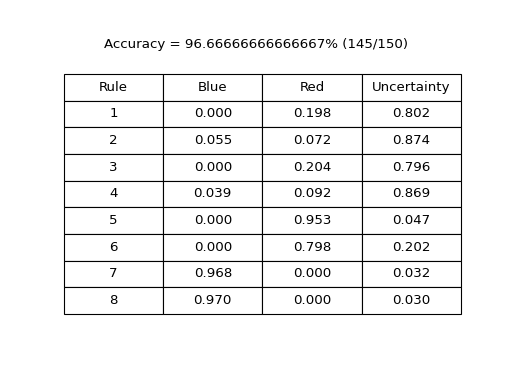
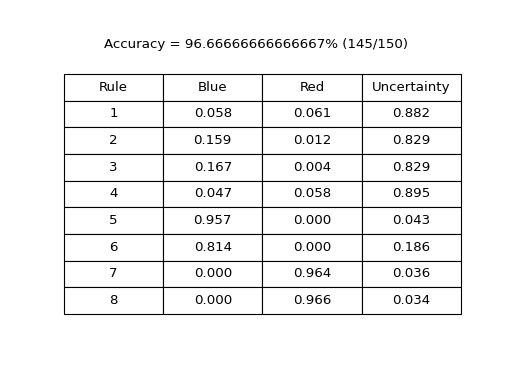
Update

diff --git a/utils/graph.py b/utils/graph.py
@@ -32,7 +32,7 @@ def draw_rule_table(rule_set, filepath, accuracy, tot_correct_predicts, tot_pred
     for i in range(len(rule_set)):
         dict_m = rule_set[i][0]
         r, b, u = dict_m[frozenset({'R'})].item(), dict_m[frozenset({'B'})].item(), dict_m[frozenset({'R', 'B'})].item() 
-        table_data.append([i+1, NUM_FORMAT.format(r), NUM_FORMAT.format(b), NUM_FORMAT.format(u)])
+        table_data.append([i+1, NUM_FORMAT.format(b), NUM_FORMAT.format(r), NUM_FORMAT.format(u)])
 
     table = ax.table(cellText=table_data, loc='center', cellLoc='center')
     table.set_fontsize(14)
